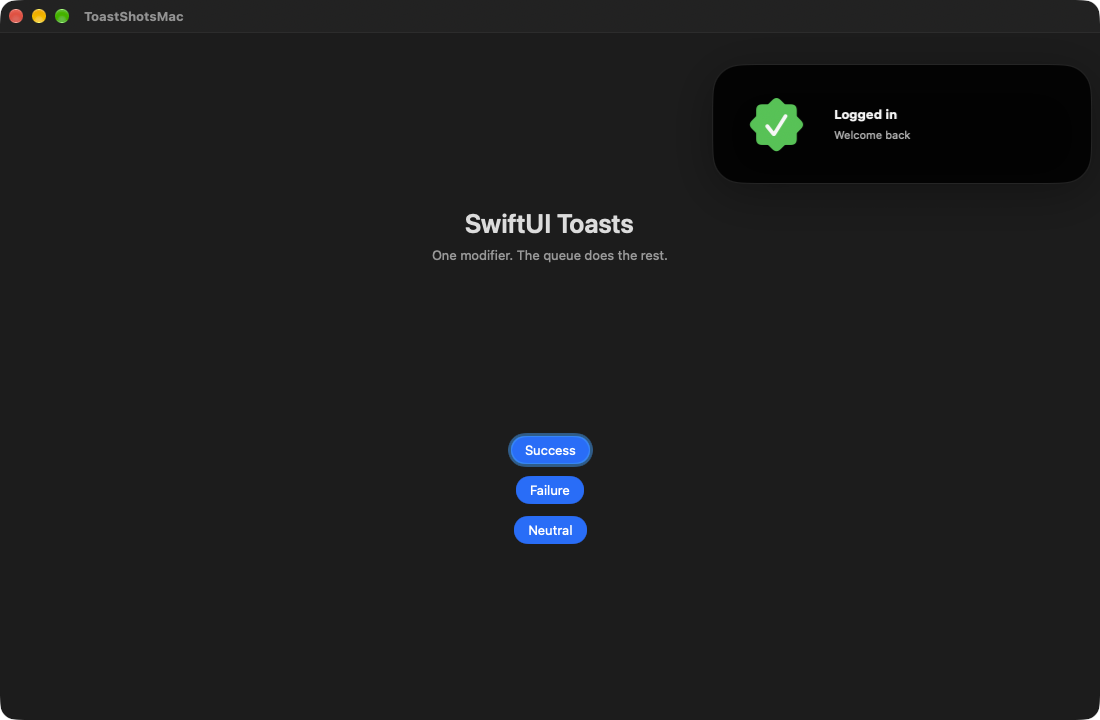
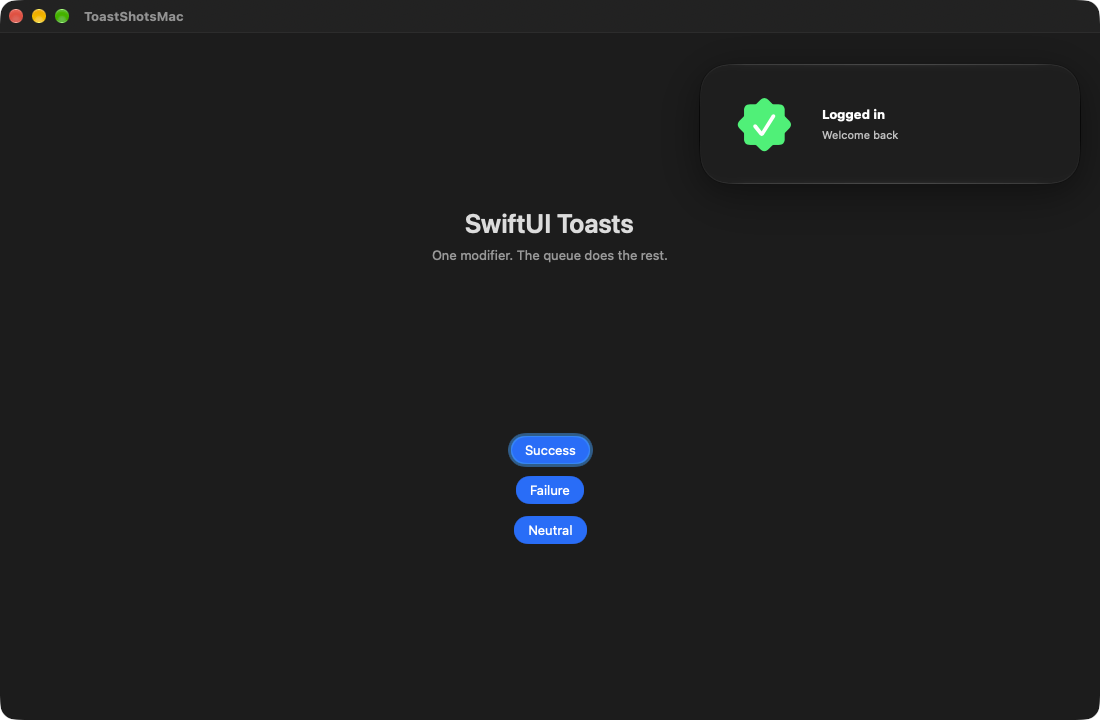
Shorten the iPad card and use dark liquid glass on Mac and Apple TV.
The iPad plate no longer keeps the island's extra height. Mac and Apple TV banners use glass tinted dark so the plate does not wash out.

Changed region(s): [[0.6491, 0.0917, 0.9891, 0.275]]

diff --git a/Sources/SwiftUIToasts/IslandToastCard.swift b/Sources/SwiftUIToasts/IslandToastCard.swift
@@ -107,18 +107,7 @@ struct IslandToastCard: View {
         .padding(.horizontal, 28)
         .padding(.vertical, 24)
         .frame(width: layout.bannerWidth, alignment: .leading)
-        .background {
-            RoundedRectangle(cornerRadius: layout.cornerRadius(for: .expanded), style: .continuous)
-                #if os(macOS)
-                    .fill(Color.black.opacity(0.92))
-                #else
-                    .fill(.ultraThickMaterial)
-                #endif
-                .overlay {
-                    RoundedRectangle(cornerRadius: layout.cornerRadius(for: .expanded), style: .continuous)
-                        .strokeBorder(.white.opacity(0.14), lineWidth: 1)
-                }
-        }
+        .toastGlass(in: RoundedRectangle(cornerRadius: layout.cornerRadius(for: .expanded), style: .continuous))
         .shadow(color: .black.opacity(0.35), radius: 24, y: 10)
         .offset(x: shown || reduceMotion ? 0 : layout.bannerWidth + layout.bannerTrailingInset)
         .opacity(shown ? 1 : 0)
@@ -226,7 +215,7 @@ struct IslandToastLabel: View {
         .frame(
             maxWidth: .infinity,
             maxHeight: .infinity,
-            alignment: showsDetail ? .topLeading : .center
+            alignment: showsDetail && contentTopInset > 0 ? .topLeading : .center
         )
     }
 }
@@ -268,6 +257,19 @@ struct IslandToastSymbol: View {
             .font(.system(size: pointSize))
             .foregroundStyle(.white, tone.secondary)
             .symbolEffect(.wiggle, options: .default.speed(1.5), value: wiggles)
+    }
+}
+
+extension View {
+    /// Dark liquid glass on OS 26 and later. Older systems keep a dark plate
+    /// so the banner does not turn into a bright material.
+    @ViewBuilder
+    func toastGlass(in shape: some Shape) -> some View {
+        if #available(iOS 26, macOS 26, tvOS 26, *) {
+            glassEffect(.regular.tint(.black.opacity(0.45)), in: shape)
+        } else {
+            background(shape.fill(Color.black.opacity(0.78)))
+        }
     }
 }
 

diff --git a/Sources/SwiftUIToasts/IslandLayout.swift b/Sources/SwiftUIToasts/IslandLayout.swift
@@ -37,6 +37,8 @@ struct IslandLayout: Equatable {
     static let referenceSafeAreaTop: CGFloat = 59
     /// Tall enough that the title sits under the cutout, not in it.
     static let expandedHeight: CGFloat = 120
+    /// iPad and notch phones have no cutout to clear, so the card hugs the text.
+    static let statusBarExpandedHeight: CGFloat = 84
     static let expandedContentGap: CGFloat = 6
     static let expandedHorizontalInset: CGFloat = 10
     static let expandedCornerRadius: CGFloat = 38
@@ -81,7 +83,8 @@ struct IslandLayout: Equatable {
         let width = containerWidth > Self.phoneWidthCeiling
             ? min(edgeToEdge, Self.regularExpandedWidth)
             : max(edgeToEdge, collapsedSize.width)
-        return CGSize(width: width, height: Self.expandedHeight)
+        let height = style == .statusBar ? Self.statusBarExpandedHeight : Self.expandedHeight
+        return CGSize(width: width, height: height)
     }
 
     /// Where the title starts inside the expanded card. On an island phone
@@ -91,7 +94,7 @@ struct IslandLayout: Equatable {
         case .dynamicIsland:
             max(Self.islandHeight, safeAreaTop - topOffset) + Self.expandedContentGap
         case .statusBar:
-            14
+            0
         case .banner:
             0
         }

diff --git a/Tests/SwiftUIToastsTests/IslandLayoutTests.swift b/Tests/SwiftUIToastsTests/IslandLayoutTests.swift
@@ -40,7 +40,8 @@ struct IslandLayoutTests {
         let island = IslandLayout(containerWidth: 390, safeAreaTop: 59, style: .dynamicIsland)
 
         #expect(notch.collapsedSize == island.collapsedSize)
-        #expect(notch.expandedSize.height == island.expandedSize.height)
+        #expect(notch.expandedSize.height == 84)
+        #expect(island.expandedSize.height == 120)
         #expect(notch.cornerRadius(for: .expanded) == island.cornerRadius(for: .expanded))
         #expect(notch.topOffset == 47)
         #expect(homeButton.topOffset == 20)
@@ -55,7 +56,7 @@ struct IslandLayoutTests {
         let mac = IslandLayout(containerWidth: 1280, safeAreaTop: 0, style: .statusBar)
         let phone = IslandLayout(containerWidth: 402, safeAreaTop: 59, style: .dynamicIsland)
 
-        #expect(ipad.expandedSize == CGSize(width: 420, height: 120))
+        #expect(ipad.expandedSize == CGSize(width: 420, height: 84))
         #expect(tv.expandedSize == ipad.expandedSize)
         #expect(mac.expandedSize == ipad.expandedSize)
         #expect(ipad.collapsedSize == phone.collapsedSize)
